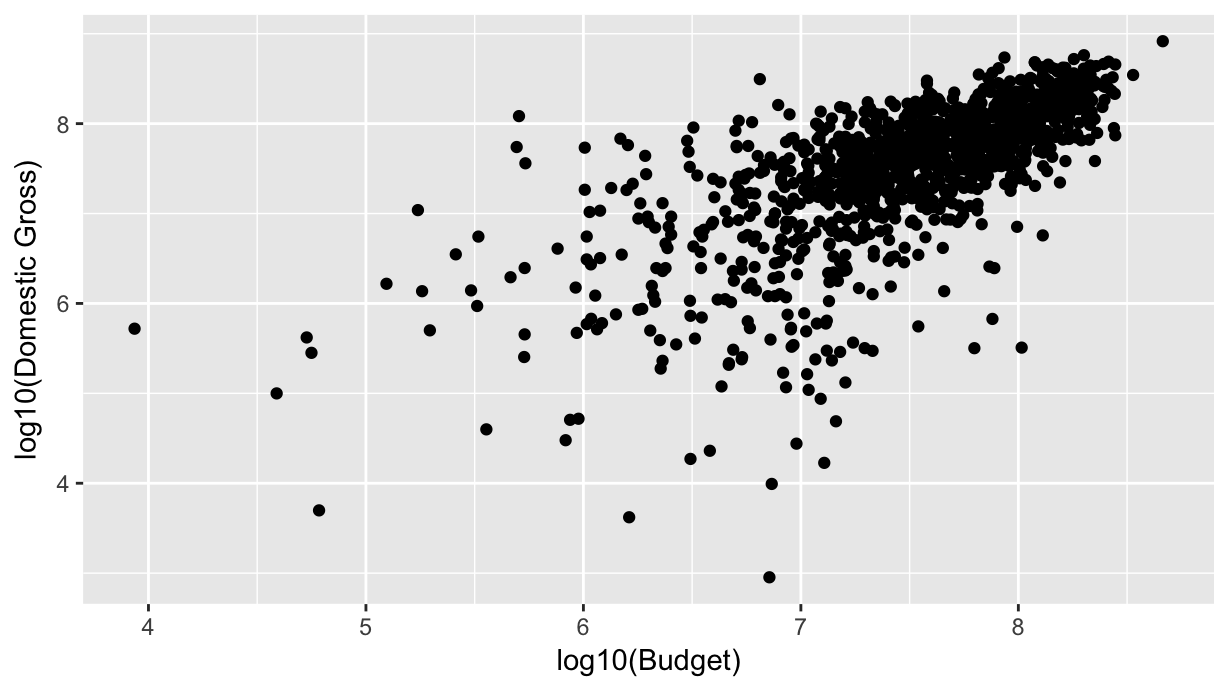
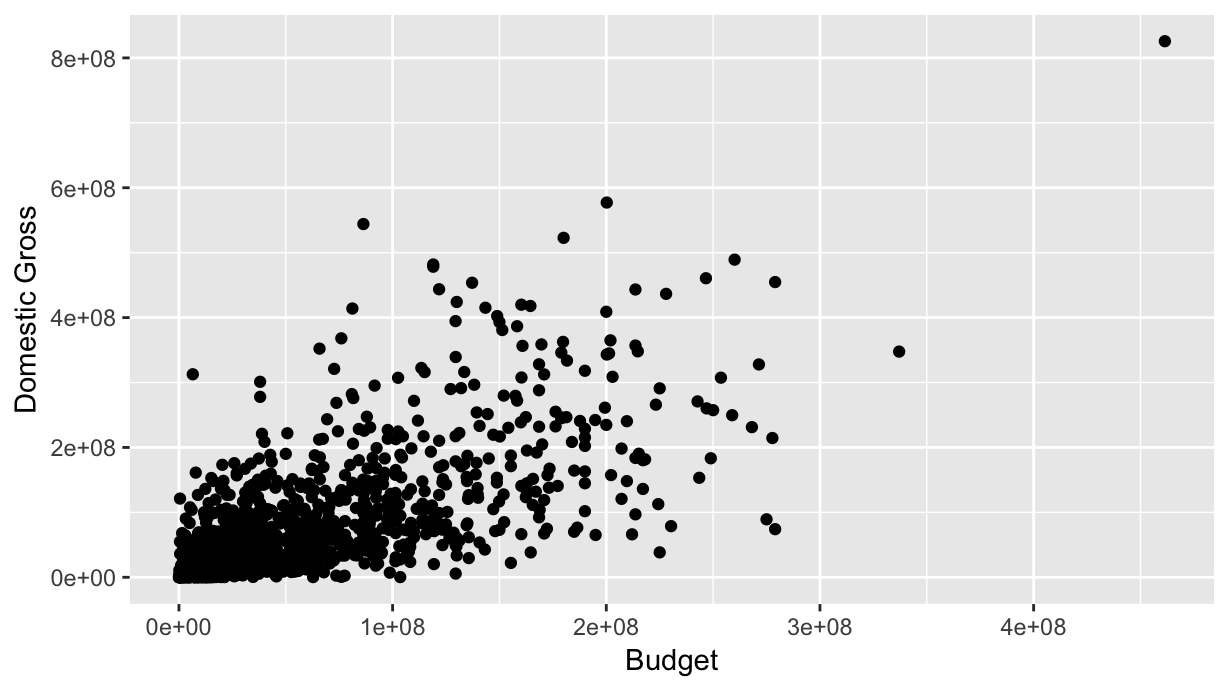
Added notes

diff --git a/docs/index.html b/docs/index.html
@@ -357,8 +357,8 @@ h1{font-weight: 400;}
 </ol>
 <p>The source code for this webpage is available by clicking the “Octocat” icon on the top-right of the nav bar.</p>
 <hr />
-<div id="more-regression" class="section level1">
-<h1>2.4 More regression</h1>
+<div id="feedback-on-ps02-and-ps03" class="section level1">
+<h1>2.4 Feedback on PS02 and PS03</h1>
 <div id="thu-926" class="section level2">
 <h2>Thu 9/26</h2>
 <p>Announcements:</p>
@@ -391,12 +391,37 @@ delays_plot &lt;- ggplot(flights_sample, aes(x=dep_delay, y=arr_delay)) +
   geom_point()
 # Hover your mouse over the resulting plot
 ggplotly(delays_plot)</code></pre>
-<div id="107513177e451" style="width:504px;height:360px;" class="plotly html-widget"></div>
-<script type="application/json" data-for="107513177e451">{"x":{"data":[{"x":[7,0,-11,4,-3,-2,20,-2,-4,-4,93,37,-2,-5,48,-3,-8,-4,-3,85,12,25,-5,29,20,-6,-1,58,38,-11,1,-7,12,-3,-4,-4,-2,-3,-8,2,-6,-8,-5,-7,7,49,null,4,85,-4,6,-11,24,-3,13,33,-2,25,111,1,24,10,-2,-2,8,-2,-8,204,8,-10,-8,-2,50,-4,-6,-6,38,6,67,0,-2,-3,-6,4,-4,-5,-7,19,-5,null,-7,40,6,0,1,-5,-6,0,-3,46],"y":[-20,3,-25,-5,4,-25,16,-24,-28,1,140,23,-5,-25,65,-20,-13,79,-29,57,38,38,-37,56,4,-48,-10,27,35,-10,-5,-29,37,-12,-12,-13,-13,-21,-28,-14,-18,-28,-5,-35,24,63,null,-3,null,-5,-15,4,38,-3,-6,-3,-1,8,134,-38,41,-3,-2,-14,-8,-17,-22,176,10,15,-16,-7,63,-12,-26,0,24,15,48,-12,-1,-26,13,54,-3,-11,-32,12,-11,null,-40,-6,-11,-29,-10,13,-2,-10,-8,47],"text":["dep_delay:   7<br />arr_delay: -20","dep_delay:   0<br />arr_delay:   3","dep_delay: -11<br />arr_delay: -25","dep_delay:   4<br />arr_delay:  -5","dep_delay:  -3<br />arr_delay:   4","dep_delay:  -2<br />arr_delay: -25","dep_delay:  20<br />arr_delay:  16","dep_delay:  -2<br />arr_delay: -24","dep_delay:  -4<br />arr_delay: -28","dep_delay:  -4<br />arr_delay:   1","dep_delay:  93<br />arr_delay: 140","dep_delay:  37<br />arr_delay:  23","dep_delay:  -2<br />arr_delay:  -5","dep_delay:  -5<br />arr_delay: -25","dep_delay:  48<br />arr_delay:  65","dep_delay:  -3<br />arr_delay: -20","dep_delay:  -8<br />arr_delay: -13","dep_delay:  -4<br />arr_delay:  79","dep_delay:  -3<br />arr_delay: -29","dep_delay:  85<br />arr_delay:  57","dep_delay:  12<br />arr_delay:  38","dep_delay:  25<br />arr_delay:  38","dep_delay:  -5<br />arr_delay: -37","dep_delay:  29<br />arr_delay:  56","dep_delay:  20<br />arr_delay:   4","dep_delay:  -6<br />arr_delay: -48","dep_delay:  -1<br />arr_delay: -10","dep_delay:  58<br />arr_delay:  27","dep_delay:  38<br />arr_delay:  35","dep_delay: -11<br />arr_delay: -10","dep_delay:   1<br />arr_delay:  -5","dep_delay:  -7<br />arr_delay: -29","dep_delay:  12<br />arr_delay:  37","dep_delay:  -3<br />arr_delay: -12","dep_delay:  -4<br />arr_delay: -12","dep_delay:  -4<br />arr_delay: -13","dep_delay:  -2<br />arr_delay: -13","dep_delay:  -3<br />arr_delay: -21","dep_delay:  -8<br />arr_delay: -28","dep_delay:   2<br />arr_delay: -14","dep_delay:  -6<br />arr_delay: -18","dep_delay:  -8<br />arr_delay: -28","dep_delay:  -5<br />arr_delay:  -5","dep_delay:  -7<br />arr_delay: -35","dep_delay:   7<br />arr_delay:  24","dep_delay:  49<br />arr_delay:  63","dep_delay:  NA<br />arr_delay:  NA","dep_delay:   4<br />arr_delay:  -3","dep_delay:  85<br />arr_delay:  NA","dep_delay:  -4<br />arr_delay:  -5","dep_delay:   6<br />arr_delay: -15","dep_delay: -11<br />arr_delay:   4","dep_delay:  24<br />arr_delay:  38","dep_delay:  -3<br />arr_delay:  -3","dep_delay:  13<br />arr_delay:  -6","dep_delay:  33<br />arr_delay:  -3","dep_delay:  -2<br />arr_delay:  -1","dep_delay:  25<br />arr_delay:   8","dep_delay: 111<br />arr_delay: 134","dep_delay:   1<br />arr_delay: -38","dep_delay:  24<br />arr_delay:  41","dep_delay:  10<br />arr_delay:  -3","dep_delay:  -2<br />arr_delay:  -2","dep_delay:  -2<br />arr_delay: -14","dep_delay:   8<br />arr_delay:  -8","dep_delay:  -2<br />arr_delay: -17","dep_delay:  -8<br />arr_delay: -22","dep_delay: 204<br />arr_delay: 176","dep_delay:   8<br />arr_delay:  10","dep_delay: -10<br />arr_delay:  15","dep_delay:  -8<br />arr_delay: -16","dep_delay:  -2<br />arr_delay:  -7","dep_delay:  50<br />arr_delay:  63","dep_delay:  -4<br />arr_delay: -12","dep_delay:  -6<br />arr_delay: -26","dep_delay:  -6<br />arr_delay:   0","dep_delay:  38<br />arr_delay:  24","dep_delay:   6<br />arr_delay:  15","dep_delay:  67<br />arr_delay:  48","dep_delay:   0<br />arr_delay: -12","dep_delay:  -2<br />arr_delay:  -1","dep_delay:  -3<br />arr_delay: -26","dep_delay:  -6<br />arr_delay:  13","dep_delay:   4<br />arr_delay:  54","dep_delay:  -4<br />arr_delay:  -3","dep_delay:  -5<br />arr_delay: -11","dep_delay:  -7<br />arr_delay: -32","dep_delay:  19<br />arr_delay:  12","dep_delay:  -5<br />arr_delay: -11","dep_delay:  NA<br />arr_delay:  NA","dep_delay:  -7<br />arr_delay: -40","dep_delay:  40<br />arr_delay:  -6","dep_delay:   6<br />arr_delay: -11","dep_delay:   0<br />arr_delay: -29","dep_delay:   1<br />arr_delay: -10","dep_delay:  -5<br />arr_delay:  13","dep_delay:  -6<br />arr_delay:  -2","dep_delay:   0<br />arr_delay: -10","dep_delay:  -3<br />arr_delay:  -8","dep_delay:  46<br />arr_delay:  47"],"type":"scatter","mode":"markers","marker":{"autocolorscale":false,"color":"rgba(0,0,0,1)","opacity":1,"size":5.66929133858268,"symbol":"circle","line":{"width":1.88976377952756,"color":"rgba(0,0,0,1)"}},"hoveron":"points","showlegend":false,"xaxis":"x","yaxis":"y","hoverinfo":"text","frame":null}],"layout":{"margin":{"t":26.2283105022831,"r":7.30593607305936,"b":40.1826484018265,"l":43.1050228310502},"plot_bgcolor":"rgba(235,235,235,1)","paper_bgcolor":"rgba(255,255,255,1)","font":{"color":"rgba(0,0,0,1)","family":"","size":14.6118721461187},"xaxis":{"domain":[0,1],"type":"linear","autorange":false,"tickmode":"array","range":[-21.75,214.75],"ticktext":["0","50","100","150","200"],"tickvals":[0,50,100,150,200],"ticks":"outside","tickcolor":"rgba(51,51,51,1)","ticklen":3.65296803652968,"tickwidth":0.66417600664176,"showticklabels":true,"tickfont":{"color":"rgba(77,77,77,1)","family":"","size":11.689497716895},"tickangle":-0,"showline":false,"linecolor":null,"linewidth":0,"showgrid":true,"gridcolor":"rgba(255,255,255,1)","gridwidth":0.66417600664176,"zeroline":false,"anchor":"y","title":"dep_delay","titlefont":{"color":"rgba(0,0,0,1)","family":"","size":14.6118721461187},"hoverformat":".2f"},"yaxis":{"domain":[0,1],"type":"linear","autorange":false,"tickmode":"array","range":[-59.2,187.2],"ticktext":["-50","0","50","100","150"],"tickvals":[-50,0,50,100,150],"ticks":"outside","tickcolor":"rgba(51,51,51,1)","ticklen":3.65296803652968,"tickwidth":0.66417600664176,"showticklabels":true,"tickfont":{"color":"rgba(77,77,77,1)","family":"","size":11.689497716895},"tickangle":-0,"showline":false,"linecolor":null,"linewidth":0,"showgrid":true,"gridcolor":"rgba(255,255,255,1)","gridwidth":0.66417600664176,"zeroline":false,"anchor":"x","title":"arr_delay","titlefont":{"color":"rgba(0,0,0,1)","family":"","size":14.6118721461187},"hoverformat":".2f"},"shapes":[{"type":"rect","fillcolor":null,"line":{"color":null,"width":0,"linetype":[]},"yref":"paper","xref":"paper","x0":0,"x1":1,"y0":0,"y1":1}],"showlegend":false,"legend":{"bgcolor":"rgba(255,255,255,1)","bordercolor":"transparent","borderwidth":1.88976377952756,"font":{"color":"rgba(0,0,0,1)","family":"","size":11.689497716895}},"hovermode":"closest","width":504,"height":360},"source":"A","attrs":{"1075135e8795d":{"x":{},"y":{},"type":"ggplotly"}},"cur_data":"1075135e8795d","visdat":{"1075135e8795d":["function (y) ","x"]},"config":{"modeBarButtonsToAdd":[{"name":"Collaborate","icon":{"width":1000,"ascent":500,"descent":-50,"path":"M487 375c7-10 9-23 5-36l-79-259c-3-12-11-23-22-31-11-8-22-12-35-12l-263 0c-15 0-29 5-43 15-13 10-23 23-28 37-5 13-5 25-1 37 0 0 0 3 1 7 1 5 1 8 1 11 0 2 0 4-1 6 0 3-1 5-1 6 1 2 2 4 3 6 1 2 2 4 4 6 2 3 4 5 5 7 5 7 9 16 13 26 4 10 7 19 9 26 0 2 0 5 0 9-1 4-1 6 0 8 0 2 2 5 4 8 3 3 5 5 5 7 4 6 8 15 12 26 4 11 7 19 7 26 1 1 0 4 0 9-1 4-1 7 0 8 1 2 3 5 6 8 4 4 6 6 6 7 4 5 8 13 13 24 4 11 7 20 7 28 1 1 0 4 0 7-1 3-1 6-1 7 0 2 1 4 3 6 1 1 3 4 5 6 2 3 3 5 5 6 1 2 3 5 4 9 2 3 3 7 5 10 1 3 2 6 4 10 2 4 4 7 6 9 2 3 4 5 7 7 3 2 7 3 11 3 3 0 8 0 13-1l0-1c7 2 12 2 14 2l218 0c14 0 25-5 32-16 8-10 10-23 6-37l-79-259c-7-22-13-37-20-43-7-7-19-10-37-10l-248 0c-5 0-9-2-11-5-2-3-2-7 0-12 4-13 18-20 41-20l264 0c5 0 10 2 16 5 5 3 8 6 10 11l85 282c2 5 2 10 2 17 7-3 13-7 17-13z m-304 0c-1-3-1-5 0-7 1-1 3-2 6-2l174 0c2 0 4 1 7 2 2 2 4 4 5 7l6 18c0 3 0 5-1 7-1 1-3 2-6 2l-173 0c-3 0-5-1-8-2-2-2-4-4-4-7z m-24-73c-1-3-1-5 0-7 2-2 3-2 6-2l174 0c2 0 5 0 7 2 3 2 4 4 5 7l6 18c1 2 0 5-1 6-1 2-3 3-5 3l-174 0c-3 0-5-1-7-3-3-1-4-4-5-6z"},"click":"function(gd) { \n        // is this being viewed in RStudio?\n        if (location.search == '?viewer_pane=1') {\n          alert('To learn about plotly for collaboration, visit:\\n https://cpsievert.github.io/plotly_book/plot-ly-for-collaboration.html');\n        } else {\n          window.open('https://cpsievert.github.io/plotly_book/plot-ly-for-collaboration.html', '_blank');\n        }\n      }"}],"cloud":false},"highlight":{"on":"plotly_click","persistent":false,"dynamic":false,"selectize":false,"opacityDim":0.2,"selected":{"opacity":1}},"base_url":"https://plot.ly"},"evals":["config.modeBarButtonsToAdd.0.click"],"jsHooks":{"render":[{"code":"function(el, x) { var ctConfig = crosstalk.var('plotlyCrosstalkOpts').set({\"on\":\"plotly_click\",\"persistent\":false,\"dynamic\":false,\"selectize\":false,\"opacityDim\":0.2,\"selected\":{\"opacity\":1}}); }","data":null}]}}</script>
+<div id="10a1a66837e7d" style="width:504px;height:360px;" class="plotly html-widget"></div>
+<script type="application/json" data-for="10a1a66837e7d">{"x":{"data":[{"x":[7,0,-11,4,-3,-2,20,-2,-4,-4,93,37,-2,-5,48,-3,-8,-4,-3,85,12,25,-5,29,20,-6,-1,58,38,-11,1,-7,12,-3,-4,-4,-2,-3,-8,2,-6,-8,-5,-7,7,49,null,4,85,-4,6,-11,24,-3,13,33,-2,25,111,1,24,10,-2,-2,8,-2,-8,204,8,-10,-8,-2,50,-4,-6,-6,38,6,67,0,-2,-3,-6,4,-4,-5,-7,19,-5,null,-7,40,6,0,1,-5,-6,0,-3,46],"y":[-20,3,-25,-5,4,-25,16,-24,-28,1,140,23,-5,-25,65,-20,-13,79,-29,57,38,38,-37,56,4,-48,-10,27,35,-10,-5,-29,37,-12,-12,-13,-13,-21,-28,-14,-18,-28,-5,-35,24,63,null,-3,null,-5,-15,4,38,-3,-6,-3,-1,8,134,-38,41,-3,-2,-14,-8,-17,-22,176,10,15,-16,-7,63,-12,-26,0,24,15,48,-12,-1,-26,13,54,-3,-11,-32,12,-11,null,-40,-6,-11,-29,-10,13,-2,-10,-8,47],"text":["dep_delay:   7<br />arr_delay: -20","dep_delay:   0<br />arr_delay:   3","dep_delay: -11<br />arr_delay: -25","dep_delay:   4<br />arr_delay:  -5","dep_delay:  -3<br />arr_delay:   4","dep_delay:  -2<br />arr_delay: -25","dep_delay:  20<br />arr_delay:  16","dep_delay:  -2<br />arr_delay: -24","dep_delay:  -4<br />arr_delay: -28","dep_delay:  -4<br />arr_delay:   1","dep_delay:  93<br />arr_delay: 140","dep_delay:  37<br />arr_delay:  23","dep_delay:  -2<br />arr_delay:  -5","dep_delay:  -5<br />arr_delay: -25","dep_delay:  48<br />arr_delay:  65","dep_delay:  -3<br />arr_delay: -20","dep_delay:  -8<br />arr_delay: -13","dep_delay:  -4<br />arr_delay:  79","dep_delay:  -3<br />arr_delay: -29","dep_delay:  85<br />arr_delay:  57","dep_delay:  12<br />arr_delay:  38","dep_delay:  25<br />arr_delay:  38","dep_delay:  -5<br />arr_delay: -37","dep_delay:  29<br />arr_delay:  56","dep_delay:  20<br />arr_delay:   4","dep_delay:  -6<br />arr_delay: -48","dep_delay:  -1<br />arr_delay: -10","dep_delay:  58<br />arr_delay:  27","dep_delay:  38<br />arr_delay:  35","dep_delay: -11<br />arr_delay: -10","dep_delay:   1<br />arr_delay:  -5","dep_delay:  -7<br />arr_delay: -29","dep_delay:  12<br />arr_delay:  37","dep_delay:  -3<br />arr_delay: -12","dep_delay:  -4<br />arr_delay: -12","dep_delay:  -4<br />arr_delay: -13","dep_delay:  -2<br />arr_delay: -13","dep_delay:  -3<br />arr_delay: -21","dep_delay:  -8<br />arr_delay: -28","dep_delay:   2<br />arr_delay: -14","dep_delay:  -6<br />arr_delay: -18","dep_delay:  -8<br />arr_delay: -28","dep_delay:  -5<br />arr_delay:  -5","dep_delay:  -7<br />arr_delay: -35","dep_delay:   7<br />arr_delay:  24","dep_delay:  49<br />arr_delay:  63","dep_delay:  NA<br />arr_delay:  NA","dep_delay:   4<br />arr_delay:  -3","dep_delay:  85<br />arr_delay:  NA","dep_delay:  -4<br />arr_delay:  -5","dep_delay:   6<br />arr_delay: -15","dep_delay: -11<br />arr_delay:   4","dep_delay:  24<br />arr_delay:  38","dep_delay:  -3<br />arr_delay:  -3","dep_delay:  13<br />arr_delay:  -6","dep_delay:  33<br />arr_delay:  -3","dep_delay:  -2<br />arr_delay:  -1","dep_delay:  25<br />arr_delay:   8","dep_delay: 111<br />arr_delay: 134","dep_delay:   1<br />arr_delay: -38","dep_delay:  24<br />arr_delay:  41","dep_delay:  10<br />arr_delay:  -3","dep_delay:  -2<br />arr_delay:  -2","dep_delay:  -2<br />arr_delay: -14","dep_delay:   8<br />arr_delay:  -8","dep_delay:  -2<br />arr_delay: -17","dep_delay:  -8<br />arr_delay: -22","dep_delay: 204<br />arr_delay: 176","dep_delay:   8<br />arr_delay:  10","dep_delay: -10<br />arr_delay:  15","dep_delay:  -8<br />arr_delay: -16","dep_delay:  -2<br />arr_delay:  -7","dep_delay:  50<br />arr_delay:  63","dep_delay:  -4<br />arr_delay: -12","dep_delay:  -6<br />arr_delay: -26","dep_delay:  -6<br />arr_delay:   0","dep_delay:  38<br />arr_delay:  24","dep_delay:   6<br />arr_delay:  15","dep_delay:  67<br />arr_delay:  48","dep_delay:   0<br />arr_delay: -12","dep_delay:  -2<br />arr_delay:  -1","dep_delay:  -3<br />arr_delay: -26","dep_delay:  -6<br />arr_delay:  13","dep_delay:   4<br />arr_delay:  54","dep_delay:  -4<br />arr_delay:  -3","dep_delay:  -5<br />arr_delay: -11","dep_delay:  -7<br />arr_delay: -32","dep_delay:  19<br />arr_delay:  12","dep_delay:  -5<br />arr_delay: -11","dep_delay:  NA<br />arr_delay:  NA","dep_delay:  -7<br />arr_delay: -40","dep_delay:  40<br />arr_delay:  -6","dep_delay:   6<br />arr_delay: -11","dep_delay:   0<br />arr_delay: -29","dep_delay:   1<br />arr_delay: -10","dep_delay:  -5<br />arr_delay:  13","dep_delay:  -6<br />arr_delay:  -2","dep_delay:   0<br />arr_delay: -10","dep_delay:  -3<br />arr_delay:  -8","dep_delay:  46<br />arr_delay:  47"],"type":"scatter","mode":"markers","marker":{"autocolorscale":false,"color":"rgba(0,0,0,1)","opacity":1,"size":5.66929133858268,"symbol":"circle","line":{"width":1.88976377952756,"color":"rgba(0,0,0,1)"}},"hoveron":"points","showlegend":false,"xaxis":"x","yaxis":"y","hoverinfo":"text","frame":null}],"layout":{"margin":{"t":26.2283105022831,"r":7.30593607305936,"b":40.1826484018265,"l":43.1050228310502},"plot_bgcolor":"rgba(235,235,235,1)","paper_bgcolor":"rgba(255,255,255,1)","font":{"color":"rgba(0,0,0,1)","family":"","size":14.6118721461187},"xaxis":{"domain":[0,1],"type":"linear","autorange":false,"tickmode":"array","range":[-21.75,214.75],"ticktext":["0","50","100","150","200"],"tickvals":[0,50,100,150,200],"ticks":"outside","tickcolor":"rgba(51,51,51,1)","ticklen":3.65296803652968,"tickwidth":0.66417600664176,"showticklabels":true,"tickfont":{"color":"rgba(77,77,77,1)","family":"","size":11.689497716895},"tickangle":-0,"showline":false,"linecolor":null,"linewidth":0,"showgrid":true,"gridcolor":"rgba(255,255,255,1)","gridwidth":0.66417600664176,"zeroline":false,"anchor":"y","title":"dep_delay","titlefont":{"color":"rgba(0,0,0,1)","family":"","size":14.6118721461187},"hoverformat":".2f"},"yaxis":{"domain":[0,1],"type":"linear","autorange":false,"tickmode":"array","range":[-59.2,187.2],"ticktext":["-50","0","50","100","150"],"tickvals":[-50,0,50,100,150],"ticks":"outside","tickcolor":"rgba(51,51,51,1)","ticklen":3.65296803652968,"tickwidth":0.66417600664176,"showticklabels":true,"tickfont":{"color":"rgba(77,77,77,1)","family":"","size":11.689497716895},"tickangle":-0,"showline":false,"linecolor":null,"linewidth":0,"showgrid":true,"gridcolor":"rgba(255,255,255,1)","gridwidth":0.66417600664176,"zeroline":false,"anchor":"x","title":"arr_delay","titlefont":{"color":"rgba(0,0,0,1)","family":"","size":14.6118721461187},"hoverformat":".2f"},"shapes":[{"type":"rect","fillcolor":null,"line":{"color":null,"width":0,"linetype":[]},"yref":"paper","xref":"paper","x0":0,"x1":1,"y0":0,"y1":1}],"showlegend":false,"legend":{"bgcolor":"rgba(255,255,255,1)","bordercolor":"transparent","borderwidth":1.88976377952756,"font":{"color":"rgba(0,0,0,1)","family":"","size":11.689497716895}},"hovermode":"closest","width":504,"height":360},"source":"A","attrs":{"10a1a504cde02":{"x":{},"y":{},"type":"ggplotly"}},"cur_data":"10a1a504cde02","visdat":{"10a1a504cde02":["function (y) ","x"]},"config":{"modeBarButtonsToAdd":[{"name":"Collaborate","icon":{"width":1000,"ascent":500,"descent":-50,"path":"M487 375c7-10 9-23 5-36l-79-259c-3-12-11-23-22-31-11-8-22-12-35-12l-263 0c-15 0-29 5-43 15-13 10-23 23-28 37-5 13-5 25-1 37 0 0 0 3 1 7 1 5 1 8 1 11 0 2 0 4-1 6 0 3-1 5-1 6 1 2 2 4 3 6 1 2 2 4 4 6 2 3 4 5 5 7 5 7 9 16 13 26 4 10 7 19 9 26 0 2 0 5 0 9-1 4-1 6 0 8 0 2 2 5 4 8 3 3 5 5 5 7 4 6 8 15 12 26 4 11 7 19 7 26 1 1 0 4 0 9-1 4-1 7 0 8 1 2 3 5 6 8 4 4 6 6 6 7 4 5 8 13 13 24 4 11 7 20 7 28 1 1 0 4 0 7-1 3-1 6-1 7 0 2 1 4 3 6 1 1 3 4 5 6 2 3 3 5 5 6 1 2 3 5 4 9 2 3 3 7 5 10 1 3 2 6 4 10 2 4 4 7 6 9 2 3 4 5 7 7 3 2 7 3 11 3 3 0 8 0 13-1l0-1c7 2 12 2 14 2l218 0c14 0 25-5 32-16 8-10 10-23 6-37l-79-259c-7-22-13-37-20-43-7-7-19-10-37-10l-248 0c-5 0-9-2-11-5-2-3-2-7 0-12 4-13 18-20 41-20l264 0c5 0 10 2 16 5 5 3 8 6 10 11l85 282c2 5 2 10 2 17 7-3 13-7 17-13z m-304 0c-1-3-1-5 0-7 1-1 3-2 6-2l174 0c2 0 4 1 7 2 2 2 4 4 5 7l6 18c0 3 0 5-1 7-1 1-3 2-6 2l-173 0c-3 0-5-1-8-2-2-2-4-4-4-7z m-24-73c-1-3-1-5 0-7 2-2 3-2 6-2l174 0c2 0 5 0 7 2 3 2 4 4 5 7l6 18c1 2 0 5-1 6-1 2-3 3-5 3l-174 0c-3 0-5-1-7-3-3-1-4-4-5-6z"},"click":"function(gd) { \n        // is this being viewed in RStudio?\n        if (location.search == '?viewer_pane=1') {\n          alert('To learn about plotly for collaboration, visit:\\n https://cpsievert.github.io/plotly_book/plot-ly-for-collaboration.html');\n        } else {\n          window.open('https://cpsievert.github.io/plotly_book/plot-ly-for-collaboration.html', '_blank');\n        }\n      }"}],"cloud":false},"highlight":{"on":"plotly_click","persistent":false,"dynamic":false,"selectize":false,"opacityDim":0.2,"selected":{"opacity":1}},"base_url":"https://plot.ly"},"evals":["config.modeBarButtonsToAdd.0.click"],"jsHooks":{"render":[{"code":"function(el, x) { var ctConfig = crosstalk.var('plotlyCrosstalkOpts').set({\"on\":\"plotly_click\",\"persistent\":false,\"dynamic\":false,\"selectize\":false,\"opacityDim\":0.2,\"selected\":{\"opacity\":1}}); }","data":null}]}}</script>
 </div>
 <div id="chalk-talk" class="section level2">
 <h2>Chalk talk</h2>
 <p><a href="#PS02">Problem set 2</a> feedback</p>
+</div>
+<div id="problem-set-3" class="section level2">
+<h2>Problem set 3</h2>
+<p>Look at the image for <a href="#PS03">Problem set 3</a>, and then answer these two questions with your seatmates.</p>
+<pre class="r"><code>library(tidyverse)
+
+mtcars &lt;- mtcars %&gt;% 
+  # A tibble is very similar to a data frame, but when you view its contents
+  # in the console, it only prints out about 30 rows
+  as_tibble() %&gt;% 
+  mutate(ID = 1:n()) %&gt;% 
+  select(ID, mpg, hp)
+
+# Number of folds
+k &lt;- 5
+
+# Q1: What&#39;s the difference between these two in terms of crossvalidation?
+# Hint: table() function to get frequency table
+fold_scheme_1 &lt;- sample(1:k, size=nrow(mtcars), replace = TRUE)
+fold_scheme_2 &lt;- rep(1:k, len=nrow(mtcars))
+
+mtcars %&gt;% 
+  # Q2: Why do we sample_frac 100% first?
+  sample_frac(1) %&gt;% 
+  mutate(fold = rep(1:k, len=n()))</code></pre>
 <hr />
 </div>
 </div>
@@ -510,8 +535,8 @@ credit &lt;- read_csv(&quot;http://www-bcf.usc.edu/~gareth/ISL/Credit.csv&quot;)
 <hr />
 </div>
 </div>
-<div id="a-step-back" class="section level1">
-<h1>2.2 A step back</h1>
+<div id="a-step-back-stitchfix" class="section level1">
+<h1>2.2 A step back: StitchFix</h1>
 <div id="mon-95" class="section level2">
 <h2>Mon 9/5</h2>
 <p>Announcements:</p>
@@ -611,19 +636,19 @@ bechdel_2000 &lt;- bechdel %&gt;%
 ggplot(bechdel_2000, aes(x=budget_2013, y=domgross_2013)) +
   geom_point() +
   labs(x=&quot;Budget&quot;, y=&quot;Domestic Gross&quot;)</code></pre>
-<p><img src="index_files/figure-html/unnamed-chunk-6-1.png" width="614.4" /></p>
+<p><img src="index_files/figure-html/unnamed-chunk-7-1.png" width="614.4" /></p>
 <p>We see there is a right-skew to both the x and y-values. This is because we are comparing big budget Hollywood blockbusters with (likely) lower budget independent films. Hence, it’s really hard to see what’s going on at the lower-end of the budget scale. Let’s unskew both variables and compare not <em>absolute</em> differences, but rather, <em>relative</em> differences i.e. differences in “order of magnitude” using a <code>log10()</code> transformation:</p>
 <pre class="r"><code>ggplot(bechdel_2000, aes(x=log10(budget_2013), y=log10(domgross_2013))) +
   geom_point() +
   labs(x=&quot;log10(Budget)&quot;, y=&quot;log10(Domestic Gross)&quot;)</code></pre>
-<p><img src="index_files/figure-html/unnamed-chunk-7-1.png" width="614.4" /></p>
+<p><img src="index_files/figure-html/unnamed-chunk-8-1.png" width="614.4" /></p>
 <p>We can see a little better what’s going on at the lower end of the budget scale. However the values on the axes require a little thinking to process. For example at <span class="math inline">\(x=7\)</span>, this corresponds to movies with a budget of <span class="math inline">\(10^7 = 10,000,000\)</span> dollars. So instead, let’s <em>rescale</em> both axes so that they display the data in their original units.</p>
 <pre class="r"><code>ggplot(bechdel_2000, aes(x=budget_2013, y=domgross_2013)) +
   geom_point() +
   scale_x_log10() +
   scale_y_log10() +
   labs(x=&quot;Budget (log10-scale)&quot;, y=&quot;Domestic Gross (log10-scale)&quot;)</code></pre>
-<p><img src="index_files/figure-html/unnamed-chunk-8-1.png" width="614.4" /></p>
+<p><img src="index_files/figure-html/unnamed-chunk-9-1.png" width="614.4" /></p>
 <p>Note that</p>
 <ul>
 <li>The two plots are identical, but the values on the axes are different.</li>
@@ -775,26 +800,6 @@ ggplot(flights_sample_train, aes(x=temp, y=dep_delay)) +
 </div>
 <div id="feedback-1" class="section level2">
 <h2>Feedback</h2>
-<pre class="r"><code>library(tidyverse)
-
-mtcars &lt;- mtcars %&gt;% 
-  # A tibble is very similar to a data frame, but when you view its contents
-  # in the console, it only prints out about 30 rows
-  as_tibble() %&gt;% 
-  mutate(ID = 1:n()) %&gt;% 
-  select(ID, mpg, hp)
-
-# Number of folds
-k &lt;- 5
-
-# Q1: What&#39;s the difference between these two in terms of crossvalidation?
-folds_1 &lt;- sample(1:k, size=nrow(mtcars), replace = TRUE)
-folds_2 &lt;- rep(1:k, len=nrow(mtcars))
-
-mtcars %&gt;% 
-  # Q2: Why do we sample_frac 100% first?
-  sample_frac(1) %&gt;% 
-  mutate(fold = rep(1:k, len=n()))</code></pre>
 <hr />
 </div>
 </div>
